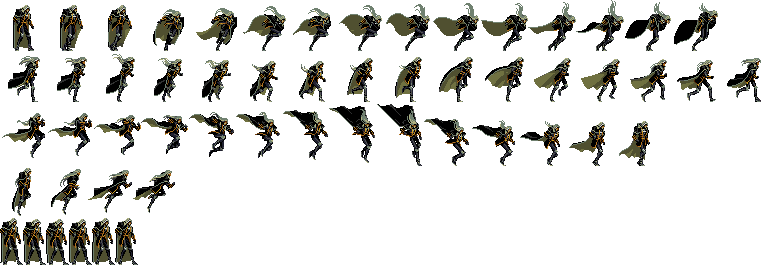
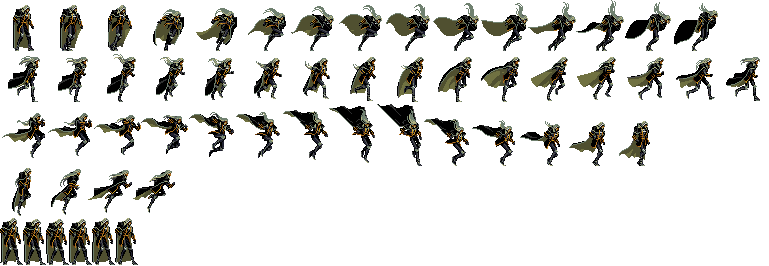
Running animation works perfectly

Changed region(s): [[0.0624, 0.2105, 0.9987, 0.391], [0.3121, 0.0301, 0.4369, 0.1805]]

diff --git a/src/ajupdate_player.c b/src/ajupdate_player.c
@@ -15,6 +15,8 @@ void aju_player_event(player *_player)
         if (_player->state != JUMPING && _player->state != FALLING) {
             _player->state = JUMPING;
             _player->stance_anim.jumping.rect.left = 0;
+            _player->stance_anim.running.rect.top = 0;
+            _player->stance_anim.running.rect.left = 0;
             _player->dy = -700;
         }
     }
@@ -47,12 +49,26 @@ void aju_player_animation_jumping(player *_player)
 void aju_player_animation_falling(player *_player)
 {
     float test = sfTime_asSeconds(sfClock_getElapsedTime(_player->anim_clock));
-    if (test > 0.050) {
-        if (_player->stance_anim.falling.rect.left >= 658){
+    if (test > 0.100) {
+        if (_player->stance_anim.falling.rect.left == 658){
             _player->stance_anim.falling.rect.left = 0;
         }
         sfSprite_setTextureRect(_player->sprite, _player->stance_anim.falling.rect);
         _player->stance_anim.falling.rect.left += _player->stance_anim.falling.rect.width;
+        sfClock_restart(_player->anim_clock);
+    }
+}
+
+void aju_player_animation_running(player *_player)
+{
+    float test = sfTime_asSeconds(sfClock_getElapsedTime(_player->anim_clock));
+    if (test > 0.050) {
+        if (_player->stance_anim.running.rect.left == 720 && _player->stance_anim.running.rect.top == 0 || _player->stance_anim.running.rect.left == 768){
+            _player->stance_anim.running.rect.left = 0;
+            _player->stance_anim.running.rect.top = 51;
+        }
+        sfSprite_setTextureRect(_player->sprite, _player->stance_anim.running.rect);
+        _player->stance_anim.running.rect.left += _player->stance_anim.running.rect.width;
         sfClock_restart(_player->anim_clock);
     }
 }
@@ -70,6 +86,9 @@ void aju_player_animation(player *_player)
     case FALLING:
         aju_player_animation_falling(_player);
         break;
+    case RUNNING:
+        aju_player_animation_running(_player);
+        break;
     }
 
 }
@@ -77,23 +96,23 @@ void aju_player_animation(player *_player)
 void aju_player_position_y(player *_player)
 {
     float dt = sfTime_asSeconds(sfClock_getElapsedTime(_player->move_clock));
-    if (_player->state == IDLE)
+    if (_player->state == RUNNING)
         _player->dy = 0;
     else {
         _player->dy += GRAVITY * dt;
-    }
         _player->pos.y += _player->dy * dt;
-    if (_player->pos.y > 371.0) {
-        if (_player->state != IDLE) {
+    }
+    if (_player->pos.y > 357.0) {
+        if (_player->state != RUNNING) {
         }
-        _player->pos.y = 371.0;
-        _player->state = IDLE;
+        _player->pos.y = 357.0;
+        _player->state = RUNNING;
     }
 }
 
 void aju_player_check_state(player *_player)
 {
-    if (_player->dy > -50)
+    if (_player->dy > 0)
         _player->state = FALLING;
 }
 
@@ -103,6 +122,12 @@ void aju_player_position(player *_player)
     aju_player_position_y(_player);
     sfSprite_setPosition(_player->sprite, _player->pos);
     sfClock_restart(_player->move_clock);
+    if (_player->state == RUNNING)
+        printf("RUNNING\n");
+    if (_player->state == JUMPING)
+        printf("JUMPING\n");
+    if (_player->state == FALLING)
+        printf("FALLING\n");
 }
 
 void aju_player(player *_player)

diff --git a/src/ajinitialize_player.c b/src/ajinitialize_player.c
@@ -15,7 +15,7 @@ void aji_player(player *_player)
     _player->sprite = sfSprite_create();
     sfSprite_setScale(_player->sprite, (sfVector2f){3.5, 3.5});
     _player->pos.x = 100;
-    _player->pos.y = 371;
+    _player->pos.y = 357;
     _player->state = IDLE;
     _player->dy = 0;
     _player->texture = sfTexture_createFromFile("img/alucard/alucard_sheet.png", NULL);
